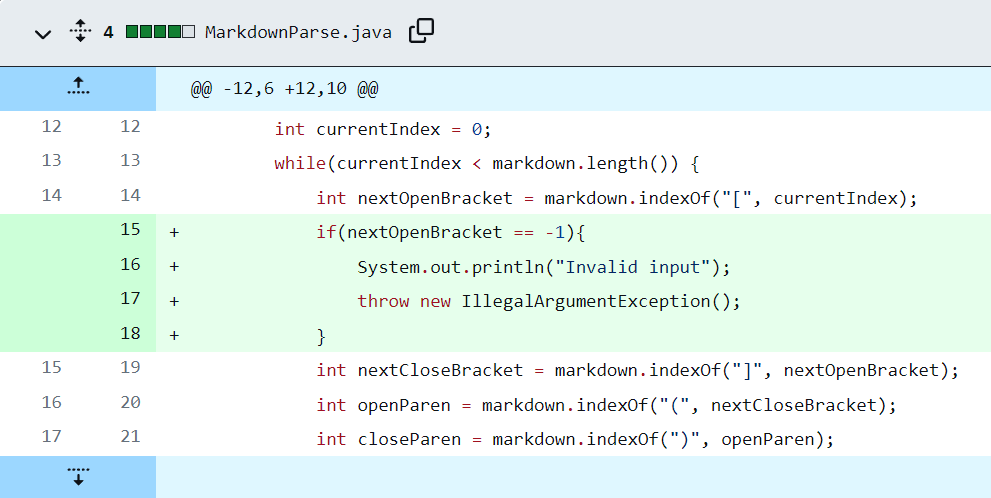
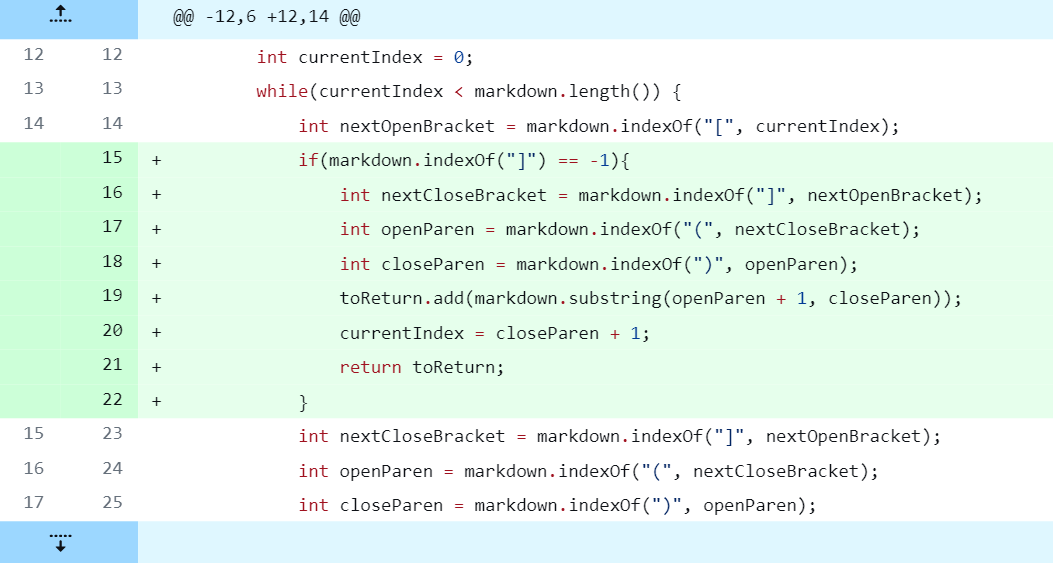
change 3 update final

diff --git a/lab-report-2-week-4.md b/lab-report-2-week-4.md
@@ -11,18 +11,33 @@ Before making that change, running the markdown file would result in the followi
 ![Image](change1symptom.png)
 
 **What happened here?**
-The test file containing the failure-inducing input contained a link that was formatted incorrectly, using a `)` instead of a `]`. This created a bug in `MarkdownParse.java`, as this file was only expecting a close bracket at that index instead of a close parenthesis. As a result, running this code produced a noticeable symptom: an infinite loop printing `-1`.
-
+The test file with the failure-inducing input contained a link that was formatted incorrectly, using a `)` instead of a `]`. This created a bug in `MarkdownParse.java`, as this file was only expecting a close bracket at that index instead of a close parenthesis. As a result, running this code produced a noticeable symptom: an `OutOfMemoryError`.
 
 
 ## Code Change 2
 
 ![Image](change2.png)
 
+This [test file](https://github.com/mtang24/markdown-parse/blob/main/test-file4.md) caused a failure-inducing input that prompted the changes made above.
 
+Before making that change, running the markdown file would result in the following:
+
+![Image](change2symptom.png)
+
+**What happened here?**
+The test file with the failure-inducing input contained a link without having both the open parenthesis preceding the link and the close parenthesis succeeding the link. This created a bug in `MarkdownParse.java`, as this file was expecting both an open and close parenthesis required to create the substring that would be added to the ArrayList `toReturn`. As a result, running this code produced a noticeable symptom: a `StringIndexOutOfBoundsException` (due to openParen and closeParen equaling to -1 since `(` nor `)` appeared in the test file).
 
 
 ## Code Change 3
 
 ![Image](change3.png)
+
+This [test file](https://github.com/mtang24/markdown-parse/blob/main/test-file5.md) caused a failure-inducing input that prompted the changes made above.
+
+Before making that change, running the markdown file would result in the following:
+
+![Image](change3symptom.png)
+
+**What happened here?**
+The test file with the failure-inducing input contained a link without having any parentheses, instead placing the link between brackets. This created a bug in `MarkdownParse.java`, as this file was expecting both an open and close parenthesis required  to create the substring that would be added to the ArrayList `toReturn`. As a result, running this code produced a noticeable symptom: an empty ArrayList `[]` (since incorrect index values did not permit a substring to be created and added to toReturn).
 
